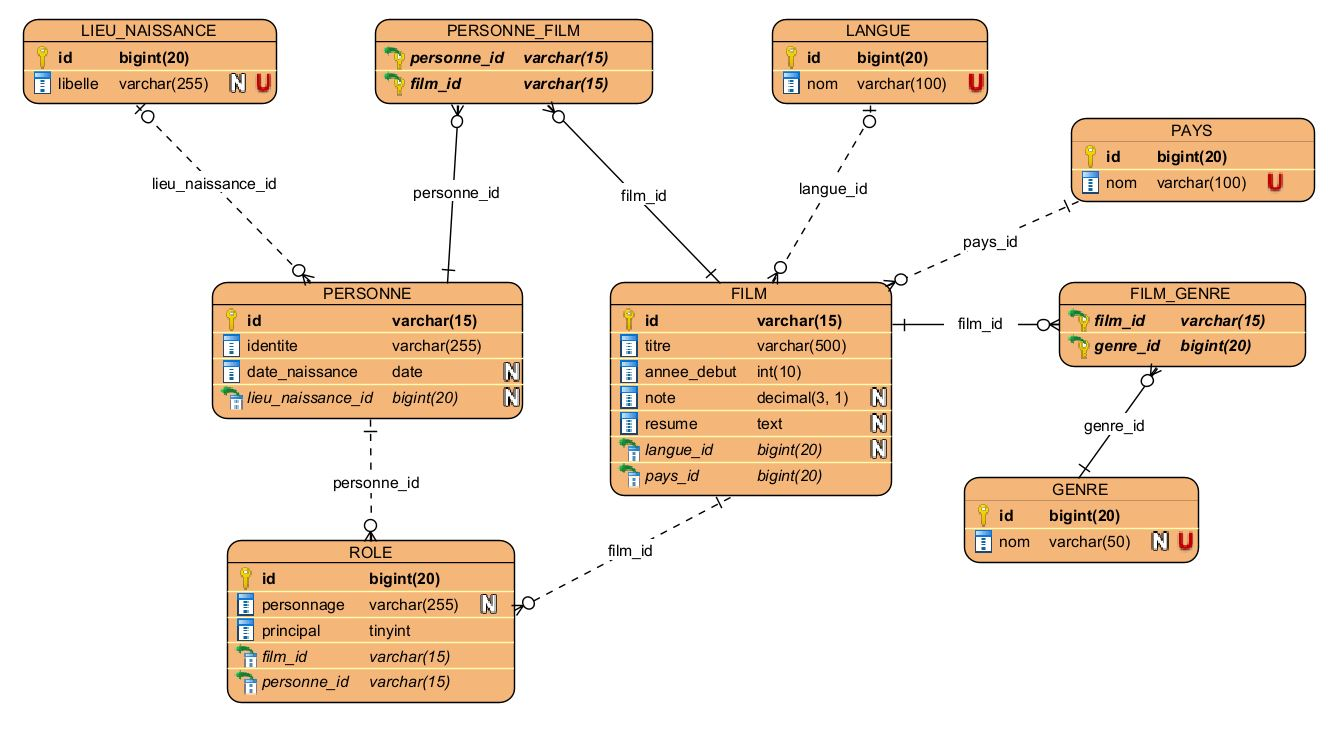
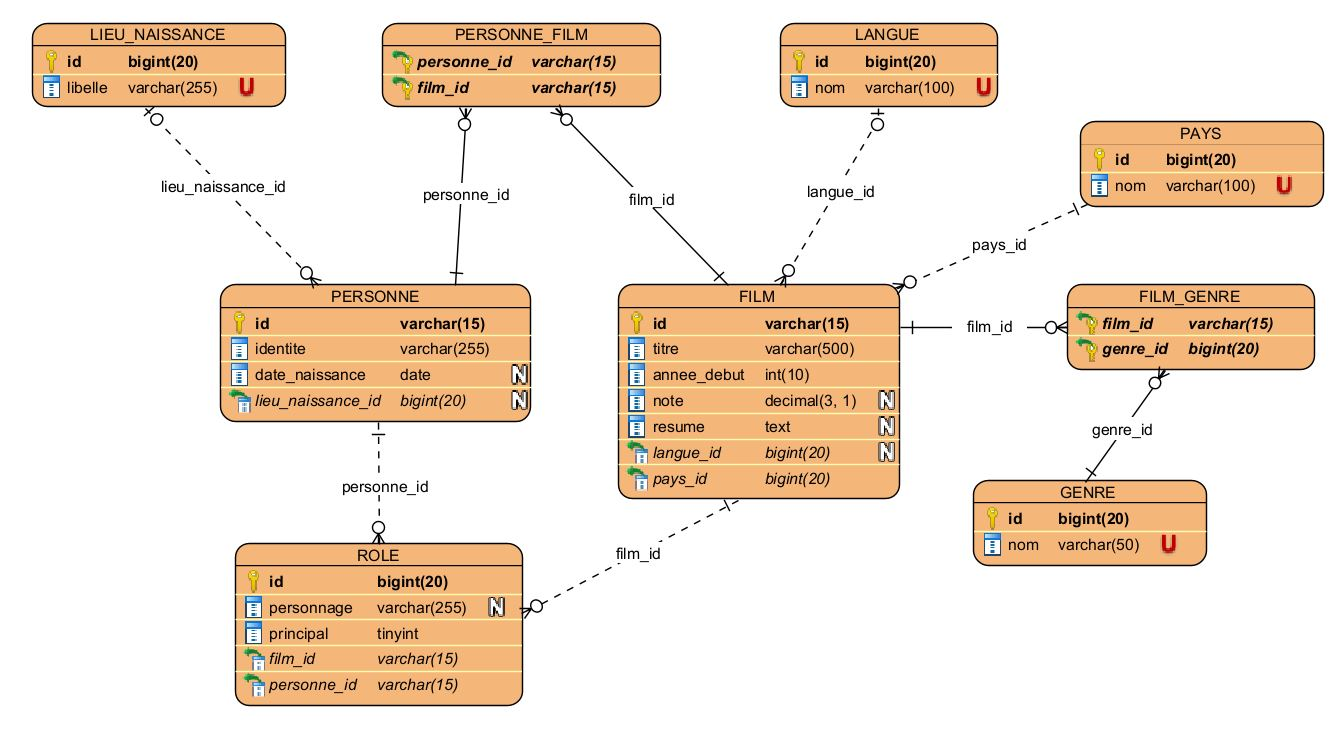
database created via .sql & entities JPA complete

diff --git a/src/main/java/fr/diginamic/entities/Film.java b/src/main/java/fr/diginamic/entities/Film.java
@@ -1,0 +1,42 @@
+package fr.diginamic.entities;
+
+import jakarta.persistence.*;
+import lombok.AllArgsConstructor;
+import lombok.Getter;
+import lombok.NoArgsConstructor;
+import lombok.Setter;
+
+import java.math.BigDecimal;
+
+@Entity
+@Table(name = "FILM")
+@Getter
+@Setter
+@NoArgsConstructor
+@AllArgsConstructor
+public class Film {
+
+    @Id
+    @Column(nullable = false, length = 15)
+    private String id;
+
+    @Column(nullable = false, length = 500)
+    private String titre;
+
+    @Column(name = "annee_debut", nullable = false)
+    private Integer anneeDebut;
+
+    @Column(precision = 3, scale = 1)
+    private BigDecimal note;
+
+    @Lob
+    private String resume;
+
+    @ManyToOne
+    @JoinColumn(name = "langue_id")
+    private Langue langue;
+
+    @ManyToOne
+    @JoinColumn(name = "pays_id", nullable = false)
+    private Pays pays;
+}

diff --git a/src/main/java/fr/diginamic/entities/Personne.java b/src/main/java/fr/diginamic/entities/Personne.java
@@ -1,0 +1,32 @@
+package fr.diginamic.entities;
+
+import jakarta.persistence.*;
+import lombok.AllArgsConstructor;
+import lombok.Getter;
+import lombok.NoArgsConstructor;
+import lombok.Setter;
+
+import java.time.LocalDate;
+
+@Entity
+@Table(name = "PERSONNE")
+@Getter
+@Setter
+@NoArgsConstructor
+@AllArgsConstructor
+public class Personne {
+
+    @Id
+    @Column(nullable = false, length = 15)
+    private String id;
+
+    @Column(nullable = false, length = 255)
+    private String identite;
+
+    @Column(name = "date_naissance")
+    private LocalDate dateNaissance;
+
+    @ManyToOne
+    @JoinColumn(name = "lieu_naissance_id")
+    private LieuNaissance lieuNaissance;
+}

diff --git a/src/main/java/fr/diginamic/entities/Role.java b/src/main/java/fr/diginamic/entities/Role.java
@@ -1,0 +1,31 @@
+package fr.diginamic.entities;
+
+import jakarta.persistence.*;
+import lombok.AllArgsConstructor;
+import lombok.Getter;
+import lombok.NoArgsConstructor;
+import lombok.Setter;
+
+@Entity
+@Table(name = "ROLE")
+@Getter
+@Setter
+@NoArgsConstructor
+@AllArgsConstructor
+public class Role {
+    @Id
+    @GeneratedValue(strategy = GenerationType.IDENTITY)
+    private Long id;
+
+    private String personnage;
+
+    private boolean principal;
+
+    @ManyToOne
+    @JoinColumn(name = "film_id", nullable = false)
+    private Film film;
+
+    @ManyToOne
+    @JoinColumn(name = "personne_id", nullable = false)
+    private Personne personne;
+}

diff --git a/src/main/java/fr/diginamic/entities/LieuNaissance.java b/src/main/java/fr/diginamic/entities/LieuNaissance.java
@@ -1,0 +1,24 @@
+package fr.diginamic.entities;
+
+import jakarta.persistence.*;
+import lombok.AllArgsConstructor;
+import lombok.Getter;
+import lombok.NoArgsConstructor;
+import lombok.Setter;
+
+@Entity
+@Table(name = "LIEU_NAISSANCE")
+@Getter
+@Setter
+@NoArgsConstructor
+@AllArgsConstructor
+public class LieuNaissance {
+
+    @Id
+    @GeneratedValue(strategy = GenerationType.IDENTITY)
+    private Long id;
+
+    @Column(nullable = false, unique = true, length = 255)
+    private String libelle;
+
+}

diff --git a/src/main/java/fr/diginamic/entities/Langue.java b/src/main/java/fr/diginamic/entities/Langue.java
@@ -1,0 +1,24 @@
+package fr.diginamic.entities;
+
+import jakarta.persistence.*;
+import lombok.AllArgsConstructor;
+import lombok.Getter;
+import lombok.NoArgsConstructor;
+import lombok.Setter;
+
+@Entity
+@Table(name = "LANGUE")
+@Getter
+@Setter
+@NoArgsConstructor
+@AllArgsConstructor
+public class Langue {
+
+    @Id
+    @GeneratedValue(strategy = GenerationType.IDENTITY)
+    private Long id;
+
+    @Column(nullable = false, unique = true, length = 100)
+    private String nom;
+
+}

diff --git a/src/main/java/fr/diginamic/entities/Genre.java b/src/main/java/fr/diginamic/entities/Genre.java
@@ -1,0 +1,24 @@
+package fr.diginamic.entities;
+
+import jakarta.persistence.*;
+import lombok.AllArgsConstructor;
+import lombok.Getter;
+import lombok.NoArgsConstructor;
+import lombok.Setter;
+
+@Entity
+@Table(name = "GENRE")
+@Getter
+@Setter
+@NoArgsConstructor
+@AllArgsConstructor
+public class Genre {
+
+    @Id
+    @GeneratedValue(strategy = GenerationType.IDENTITY)
+    private Long id;
+
+    @Column(nullable = false, unique = true, length = 50)
+    private String nom;
+
+}

diff --git a/src/main/java/fr/diginamic/entities/Pays.java b/src/main/java/fr/diginamic/entities/Pays.java
@@ -1,0 +1,24 @@
+package fr.diginamic.entities;
+
+import jakarta.persistence.*;
+import lombok.AllArgsConstructor;
+import lombok.Getter;
+import lombok.NoArgsConstructor;
+import lombok.Setter;
+
+@Entity
+@Table(name = "PAYS")
+@Getter
+@Setter
+@NoArgsConstructor
+@AllArgsConstructor
+public class Pays {
+
+    @Id
+    @GeneratedValue(strategy = GenerationType.IDENTITY)
+    private Long id;
+
+    @Column(nullable = false, unique = true, length = 100)
+    private String nom;
+
+}
